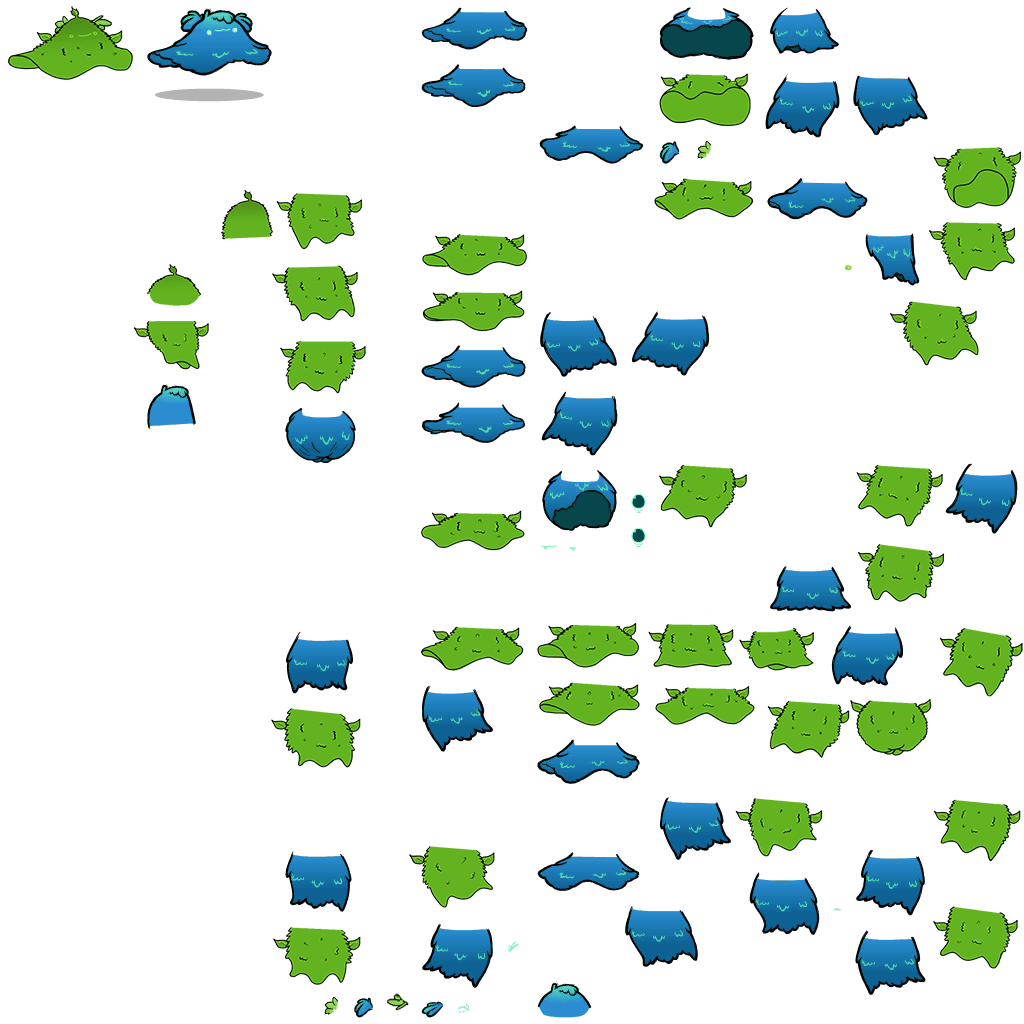
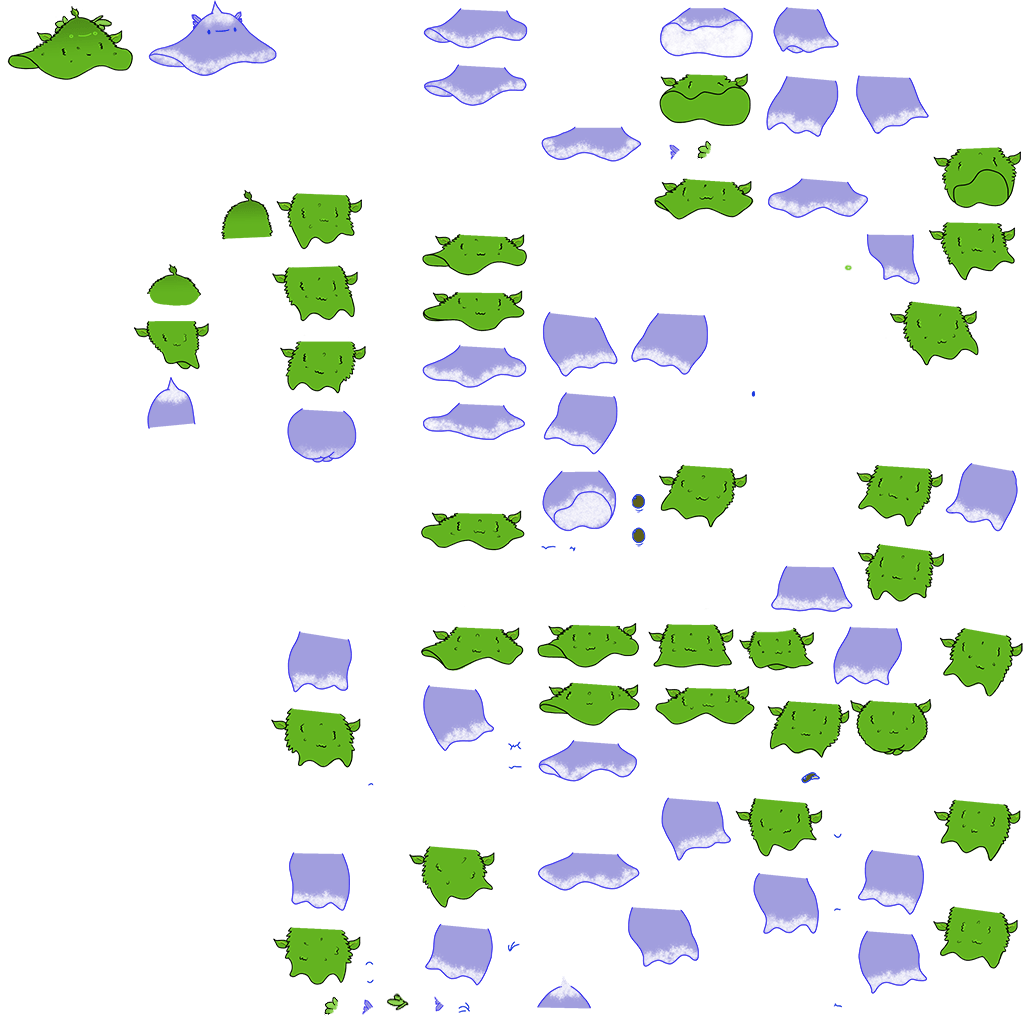
anims + frozenslickster

diff --git a/src/ILoveSlicksters/OilFloaters/FrozenOilFloaterConfig.cs b/src/ILoveSlicksters/OilFloaters/FrozenOilFloaterConfig.cs
@@ -61,7 +61,7 @@ namespace ILoveSlicksters
         };
 
         public const string base_kanim_id = "custom_oilfloater2_kanim";
-        public const string egg_kanim_id = "custom_egg_oilfloater_kanim";
+        public const string egg_kanim_id = "custom_egg_oilfloater2_kanim";
         public const string variantSprite = "oxy_";
 
 

diff --git a/src/ILoveSlicksters/OilFloaters/FrozenOilFloaterBabyConfig.cs b/src/ILoveSlicksters/OilFloaters/FrozenOilFloaterBabyConfig.cs
@@ -19,7 +19,7 @@ namespace ILoveSlicksters
         {
         }
 
-        private const string kanim_id = "baby_oilfloater_kanim";
+        private const string kanim_id = "custom_baby_oilfloater2_kanim";
         public const string ID = "FrozenOilfloaterBaby";
 
     }

diff --git a/src/AchievementReEnabler/AchievementPatch.cs b/src/AchievementReEnabler/AchievementPatch.cs
@@ -1,7 +1,6 @@
 using Harmony;
 using System;
 using System.Collections.Generic;
-using Pholib;
 
 namespace AchievementReEnabler
 {
